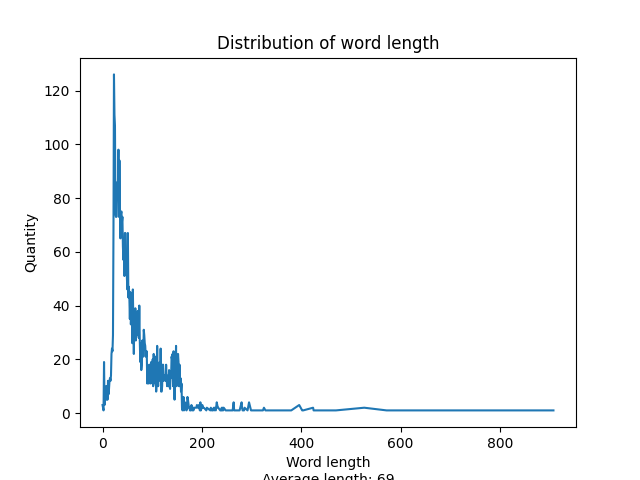
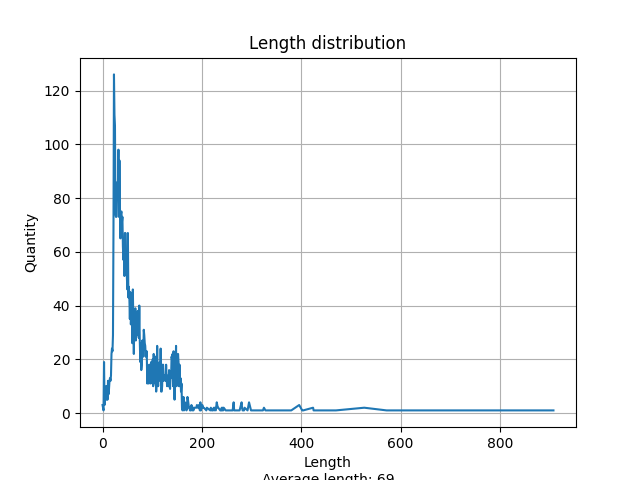
Added most frequent words plot building

diff --git a/services.py b/services.py
@@ -47,7 +47,7 @@ def build_plot_distribution_of_length(src_filename, output_filename):
             stat[stat.index(src_string)].quantity += 1
             already_in_list = False
 
-    stat.sort(key=lambda x: x.length, reverse=False)
+    stat.sort(key=lambda x: int(x.length), reverse=False)
 
     for line in stat:
         stat_length.append(line.length)
@@ -62,10 +62,11 @@ def build_plot_distribution_of_length(src_filename, output_filename):
     average_sum = round(average_sum/sum(stat_quantity))
 
     plt.plot(stat_length, stat_quantity)
-    plt.title("Distribution of word length")
-    plt.xlabel("Word length\nAverage length: " + str(average_sum))
+    plt.grid()
+    plt.title("Length distribution")
+    plt.xlabel("Length\nAverage length: " + str(average_sum))
     plt.ylabel("Quantity")
-    plt.savefig(OUTPUT_DIR + "/" + sub("^\\w+/|\\.\\w*", "", output_filename))
+    plt.savefig(OUTPUT_DIR + "/" + output_filename)
     plt.show()
 
 
@@ -80,17 +81,18 @@ def cleanup_text(source):
 
 
 def delete_stop_words(sw_filename, src_string):
+    for x in range(2):
+        # Deleting stop words from source_files
+        stop_words_file = open(SOURCE_DIR + "/" + sw_filename, "r")
 
-    # Deleting stop words from source_files
-    stop_words_file = open(SOURCE_DIR + "/" + sw_filename, "r")
+        # Fill list of words
+        stop_words_list = get_list_of_lines_from_file(stop_words_file)
 
-    # Fill list of words
-    stop_words_list = get_list_of_lines_from_file(stop_words_file)
+        # Delete from source_files
+        for line in stop_words_list:
+            src_string = sub("( " + line + " )|(\n" + line + " )|( " + line + "\n)", " ", src_string)
+            src_string = sub("(," + line + " )", ",", src_string)
 
-    # Delete from source_files
-    for line in stop_words_list:
-        src_string = sub("( " + line + " )|(\n" + line + " )|( " + line + "\n)", " ", src_string)
-        src_string = sub("(," + line + " )", ",", src_string)
     return src_string
 
 
@@ -163,3 +165,33 @@ def categorize_words_of_messages_to_file(msg_list, ham_filename, spam_filename):
 
     for item in spam_stat:
         spam_file.write(item.word + "\n")
+
+
+def build_plot_most_frequent_words(src_filename, plot_filename):
+    # put into list of WordCount objects from words file
+    # sort list by word frequency
+    # take first 20 words
+    # put into lists of length and frequency
+    # build plot
+    src_file = open(OUTPUT_DIR + "/" + src_filename, "r")
+    word_count_list = []
+    most_frequent_words_lengths = []
+    most_frequent_words_counts = []
+
+    for line in src_file:
+        word_count_list.append(WordCount(sub(":.*\n", "", line), sub("\\D*", "", line)))
+
+    word_count_list.sort(key=lambda x: int(x.count), reverse=True)
+
+    for x in range(20):
+        most_frequent_words_lengths.append(word_count_list[x].word)
+        most_frequent_words_counts.append(word_count_list[x].count)
+
+    plt.plot(most_frequent_words_lengths, most_frequent_words_counts, "bo-")
+    plt.grid()
+    plt.xticks(rotation='vertical')
+    plt.title("Most frequent words")
+    plt.xlabel("Word")
+    plt.ylabel("Quantity")
+    plt.savefig(OUTPUT_DIR + "/" + plot_filename)
+    plt.show()

diff --git a/PlotBuilder.py b/PlotBuilder.py
@@ -5,3 +5,8 @@ build_plot_distribution_of_length(HAM_MESSAGES_OUTPUT_FILENAME, HAM_MESSAGES_LEN
 build_plot_distribution_of_length(SPAM_MESSAGES_OUTPUT_FILENAME, SPAM_MESSAGES_LENGTH_PLOT_FILENAME)
 build_plot_distribution_of_length(HAM_WORDS_OUTPUT_FILENAME, HAM_WORDS_LENGTH_PLOT_FILENAME)
 build_plot_distribution_of_length(SPAM_WORDS_OUTPUT_FILENAME, SPAM_WORDS_LENGTH_PLOT_FILENAME)
+
+build_plot_most_frequent_words(
+    HAM_WORDS_STAT_OUTPUT_FILENAME, MOST_FREQUENT_HAM_WORDS_PLOT_FILENAME)
+build_plot_most_frequent_words(
+    SPAM_WORDS_STAT_OUTPUT_FILENAME, MOST_FREQUENT_SPAM_WORDS_PLOT_FILENAME)

diff --git a/constants.py b/constants.py
@@ -16,6 +16,9 @@ SPAM_WORDS_LENGTH_PLOT_FILENAME = "spam_words_plot.png"
 HAM_MESSAGES_LENGTH_PLOT_FILENAME = "ham_messages_plot.png"
 SPAM_MESSAGES_LENGTH_PLOT_FILENAME = "spam_messages_plot.png"
 
+MOST_FREQUENT_HAM_WORDS_PLOT_FILENAME = "most_frequent_ham_words_plot.png"
+MOST_FREQUENT_SPAM_WORDS_PLOT_FILENAME = "most_frequent_spam_words_plot.png"
+
 OUTPUT_DIR = "output"
 SOURCE_DIR = "source_files"
 

diff --git a/DataCleaner.py b/DataCleaner.py
@@ -10,7 +10,6 @@ message_list = get_list_of_lines_from_string(edited_str)
 categorize_messages_to_file(message_list, HAM_MESSAGES_OUTPUT_FILENAME, SPAM_MESSAGES_OUTPUT_FILENAME)
 
 edited_str = delete_stop_words(STOP_WORDS_SOURCE_FILENAME, edited_str)
-edited_str = delete_stop_words(STOP_WORDS_SOURCE_FILENAME, edited_str)
 
 message_list = get_list_of_lines_from_string(edited_str)
 
